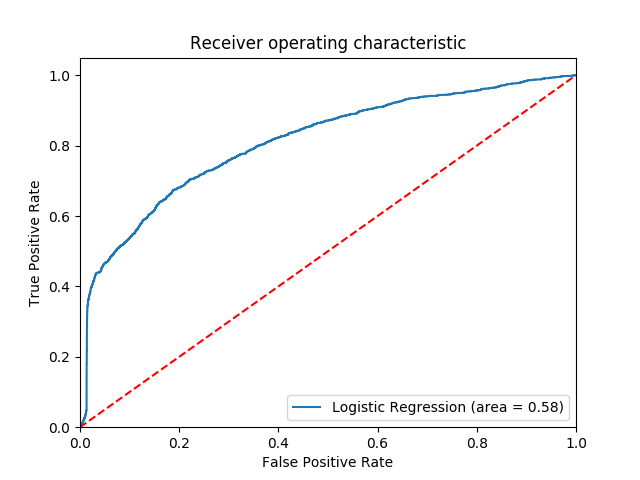
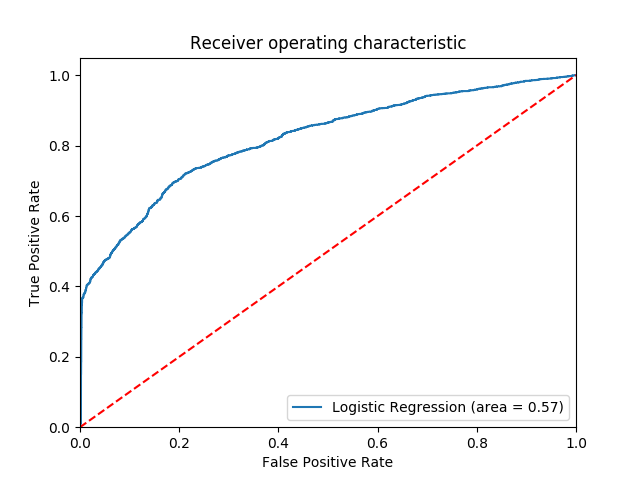
Estructured solution, and SVC added but not tested yet. Commit before 11:59 AM

diff --git a/Models/SVMBasic.py b/Models/SVMBasic.py
@@ -3,10 +3,12 @@ import pandas as pd
 import matplotlib.pyplot as plt
 import seaborn as sns
 from sklearn.model_selection import train_test_split
-from sklearn.linear_model import LogisticRegression
-from sklearn.metrics import classification_report
 from sklearn.feature_extraction import DictVectorizer as dictV
 from imblearn.over_sampling import SMOTE
+from sklearn.svm import SVC
+from sklearn.metrics import classification_report, confusion_matrix
+from sklearn.metrics import roc_auc_score
+from sklearn.metrics import roc_curve
 
 
 # Load the csv which contains the client information
@@ -33,20 +35,6 @@ crossedDF['ESTADO_CIVIL'] = crossedDF['ESTADO_CIVIL'].replace(np.nan, 'N/A')
 crossedDF.columns = crossedDF.columns.str.strip().str.lower().str.replace(' ', '_').str.replace('(', '').\
                     str.replace(')', '')
 
-# Check if are some rows with null value in the data frame
-# print("SOME NULLS: \n", crossedDF.isnull())
-#sns.heatmap(crossedDF.isnull())
-#plt.show()
-
-#sns.countplot(x='fuga', data=crossedDF)
-#plt.show()
-
-#sns.countplot(x='fuga', hue='SEXO', data=crossedDF)
-#plt.show()
-
-#sns.countplot(x='fuga', hue='ESTADO_CIVIL', data=crossedDF)
-#plt.show()
-
 categorical_data = crossedDF[['sexo', 'situacion_laboral', 'estado_civil']]
 
 categorical_data = pd.DataFrame(categorical_data)
@@ -59,58 +47,46 @@ crossedDF = crossedDF.drop(['fecha_alta', 'fecha_nacimiento', 'fecha_informacion
 #print("CLASEEEEE:", crossedDF.head())
 
 x_categorical_data = categorical_data.to_dict(orient='records')
-
 vectorizer = dictV(sparse=False)
 vec_x_categorical_data = vectorizer.fit_transform(x_categorical_data)
-
 X_train = np.hstack((crossedDF, vec_x_categorical_data))
 
 X_train, X_test, y_train, y_test = train_test_split(crossedDF.drop('fuga', axis=1), crossedDF['fuga'],
                                                     test_size=0.30, random_state=101)
 
-print("X_TRAIN: \n", len(X_train))
-print("X_test: \n", len(X_test))
-print("y_train: \n", len(y_train))
-print("y_test: \n", len(y_test))
-
-logModel = LogisticRegression()
-logModel.fit(X_train, y_train)
-predictions = logModel.predict(X_test)
-print(classification_report(y_test, predictions))
-
+# Using SMOTE to over sample the examples and get the classes balanced.
 os = SMOTE(random_state=0)
 columns = X_train.columns
-
 os_data_X, os_data_y = os.fit_sample(X_train, y_train)
 os_data_X = pd.DataFrame(data=os_data_X, columns=columns)
 os_data_y = pd.DataFrame(data=os_data_y, columns=['y'])
-# we can Check the numbers of our data
-print("length of oversampled data is ", len(os_data_X))
-print("Number of no subscription in oversampled data", len(os_data_y[os_data_y['y'] == 0]))
-print("Number of subscription", len(os_data_y[os_data_y['y']==1]))
-print("Proportion of no subscription data in oversampled data is ", len(os_data_y[os_data_y['y'] == 0])/len(os_data_X))
-print("Proportion of subscription data in oversampled data is ", len(os_data_y[os_data_y['y'] == 1])/len(os_data_X))
 
-logModel = LogisticRegression()
-logModel.fit(os_data_X, os_data_y.values.ravel())
-predictions = logModel.predict(X_test)
-print(classification_report(y_test, predictions))
+# Check the length of the data sets train and test
+print("LONGITUD DE X:", len(os_data_X))
+print("LONGITUD DE Y:", len(os_data_y))
+print("LONGITUD DE X test:", len(X_test))
+print("LONGITUD DE Y test:", len(y_test))
 
+svclassifier = SVC(kernel='linear', verbose=True, C=1)
+svclassifier.fit(os_data_X, os_data_y.values.ravel())
+y_pred = svclassifier.predict(X_test)
+print(confusion_matrix(y_test,y_pred))
+print(classification_report(y_test,y_pred))
 
-from sklearn.metrics import roc_auc_score
-from sklearn.metrics import roc_curve
-
+"""
+# Draw the ROC curve to check how much the model is capable of distinguishing between classes
 logit_roc_auc = roc_auc_score(y_test, logModel.predict(X_test))
 fpr, tpr, thresholds = roc_curve(y_test, logModel.predict_proba(X_test)[:,1])
 plt.figure()
 plt.plot(fpr, tpr, label='Logistic Regression (area = %0.2f)' % logit_roc_auc)
-plt.plot([0, 1], [0, 1],'r--')
+plt.plot([0, 1], [0, 1], 'r--')
 plt.xlim([0.0, 1.0])
 plt.ylim([0.0, 1.05])
 plt.xlabel('False Positive Rate')
 plt.ylabel('True Positive Rate')
 plt.title('Receiver operating characteristic')
 plt.legend(loc="lower right")
-plt.savefig('Log_ROC')
+plt.savefig('Log_ROC_Over_SVC')
 plt.show()
+"""
 

diff --git a/Models/DataSet.py b/Models/DataSet.py
@@ -1,0 +1,82 @@
+import numpy as np
+import pandas as pd
+from sklearn.model_selection import train_test_split
+from sklearn.feature_extraction import DictVectorizer as dictV
+import seaborn as sns
+import matplotlib.pyplot as plt
+
+
+class DataSet:
+
+    def getParticionedDataSet():
+
+        # Load the csv which contains the client information
+        clientsDF = pd.read_csv('../Data/clientesLimpios.csv', skipinitialspace=True)
+        # print(clientsDF.head())
+
+        # Load the csv which contains the client's movements information
+        movsDF = pd.read_csv('../Data/movsLimpios.csv', skipinitialspace=True)
+        # print(movsDF.head())
+
+        # Unify the two data frames before created in one data frame joined by the client identification
+        crossedDF = pd.merge(clientsDF, movsDF, left_on='CLIENTE_CC', right_on='CLIENTE_CC', how='inner')
+
+        # Verify if which values are present in the fuga field
+        # print(type(crossedDF['fuga'].unique()[1]))
+
+        # Check if are some rows with null value in the data frame
+        # print("SOME NULLS: \n", crossedDF.isnull())
+        # sns.heatmap(crossedDF.isnull())
+        # plt.savefig('../Cant_Nulos')
+        # plt.show()
+
+        # Replace some values in null in our data set
+        crossedDF['fuga'] = np.where(crossedDF['fuga'].isnull(), 0, crossedDF['fuga'])
+
+        # sns.countplot(x='fuga', data=crossedDF)
+        # plt.savefig('../Cant_Nulos_Fuga')
+        # plt.show()
+
+        # sns.countplot(x='fuga', hue='SEXO', data=crossedDF)
+        # plt.savefig('../Cant_Nulos_Fuga_Sexo')
+        # plt.show()
+
+        # sns.countplot(x='fuga', hue='ESTADO_CIVIL', data=crossedDF)
+        # plt.savefig('../Cant_Nulos_EstadoCivil')
+        # plt.show()
+
+        # Casting de data information
+        crossedDF['fuga'] = crossedDF['fuga'].astype(int)
+        crossedDF['MES_DE_FUGA'] = crossedDF['MES_DE_FUGA'].replace(np.nan, 0).astype(int)
+        crossedDF['ESTADO_CIVIL'] = crossedDF['ESTADO_CIVIL'].replace(np.nan, 'N/A')
+
+        crossedDF.columns = crossedDF.columns.str.strip().str.lower().str.replace(' ', '_').str.replace('(', ''). \
+            str.replace(')', '')
+
+        categorical_data = crossedDF[['sexo', 'situacion_laboral', 'estado_civil']]
+        categorical_data = pd.DataFrame(categorical_data)
+
+        # print(crossedDF.info())
+        crossedDF = crossedDF.drop(
+            ['fecha_alta', 'fecha_nacimiento', 'fecha_informacion', 'cliente_cc', 'situacion_laboral',
+             'estado_civil', 'sexo'], axis=1)
+        # print(type(categorical_data))
+
+        # print("CLASEEEEE:", crossedDF.head())
+
+        x_categorical_data = categorical_data.to_dict(orient='records')
+        vectorizer = dictV(sparse=False)
+        vec_x_categorical_data = vectorizer.fit_transform(x_categorical_data)
+        X_train = np.hstack((crossedDF, vec_x_categorical_data))
+
+        X_train, X_test, y_train, y_test = train_test_split(crossedDF.drop('fuga', axis=1), crossedDF['fuga'],
+                                                            test_size=0.30, random_state=101)
+
+        # Check the length of the data sets train and test
+        # print("X_TRAIN: \n", len(X_train))
+        # print("X_test: \n", len(X_test))
+        # print("y_train: \n", len(y_train))
+        # print("y_test: \n", len(y_test))
+
+        return X_train, X_test, y_train, y_test
+

diff --git a/Models/LRBasic.py b/Models/LRBasic.py
@@ -1,38 +1,23 @@
-import pandas as pd
 import matplotlib.pyplot as plt
 from sklearn.linear_model import LogisticRegression
 from sklearn.metrics import classification_report
-from imblearn.over_sampling import SMOTE
 from sklearn.metrics import roc_auc_score
 from sklearn.metrics import roc_curve
-
 from Models.DataSet import DataSet
 
 
-class LearningRateOverSampling:
+class LearningRateBasic:
 
-    def processLROverSampling():
+    def processLRBasic():
+
         # Obtain the data set from Dataset Class
         X_train, X_test, y_train, y_test = DataSet.getParticionedDataSet()
 
-        # Using SMOTE to over sample the examples and get the classes balanced.
-        os = SMOTE(random_state=0)
-        columns = X_train.columns
-        os_data_X, os_data_y = os.fit_sample(X_train, y_train)
-        os_data_X = pd.DataFrame(data=os_data_X, columns=columns)
-        os_data_y = pd.DataFrame(data=os_data_y, columns=['y'])
-
-        # Check the length of the data sets train and test
-        # print("LONGITUD DE X:", len(os_data_X))
-        # print("LONGITUD DE Y:", len(os_data_y))
-        # print("LONGITUD DE X test:", len(X_test))
-        # print("LONGITUD DE Y test:", len(y_test))
-
         # Creating a logisitc regression model
         log_model = LogisticRegression()
-        log_model.fit(os_data_X, os_data_y.values.ravel())
+        log_model.fit(X_train, y_train)
         y_pred = log_model.predict(X_test)
-        print("The classification report of LrOverSampling is: \n", classification_report(y_test, y_pred))
+        print("The classification report of LRBASIC is: \n", classification_report(y_test, y_pred))
 
         # Draw the ROC curve to check how much the model is capable of distinguishing between classes
         logit_roc_auc = roc_auc_score(y_test, log_model.predict(X_test))
@@ -46,6 +31,6 @@ class LearningRateOverSampling:
         plt.ylabel('True Positive Rate')
         plt.title('Receiver operating characteristic')
         plt.legend(loc="lower right")
-        plt.savefig('../Log_ROC_Over_Sampling')
+        plt.savefig('../Log_ROC')
         plt.show()
 

diff --git a/Test/TestLrOS.py b/Test/TestLrOS.py
@@ -1,0 +1,10 @@
+from Models.LROverSampling import LearningRateOverSampling
+
+
+def main():
+    LearningRateOverSampling.processLROverSampling()
+
+
+if __name__ == "__main__":
+    main()
+

diff --git a/Test/TestLrBasic.py b/Test/TestLrBasic.py
@@ -1,0 +1,10 @@
+from Models.LRBasic import LearningRateBasic
+
+
+def main():
+    LearningRateBasic.processLRBasic()
+
+
+if __name__ == "__main__":
+    main()
+
